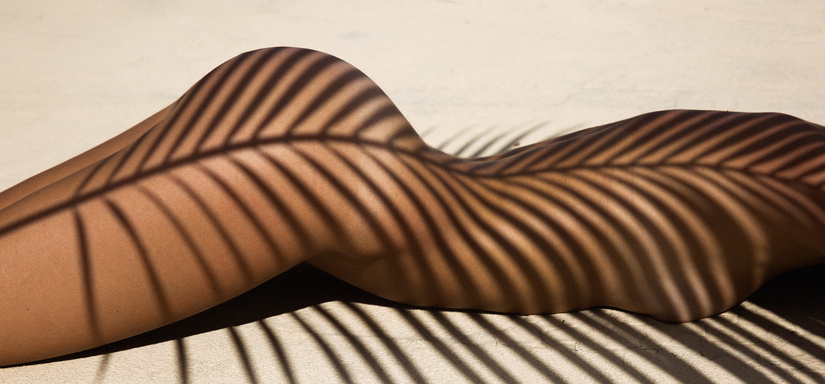
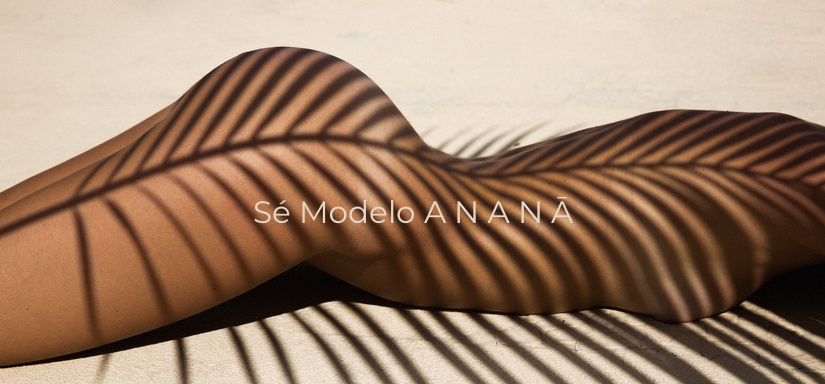
missing the questions interaction to be finished

Changed region(s): [[0.303, 0.5, 0.697, 0.5938]]

diff --git a/index.html b/index.html
@@ -19,12 +19,12 @@
 </head>
 <body> 
     <div class="fixed-icons">
-        <a href="https://api.whatsapp.com/send?phone=573155146772&text=Hola!%20Estoy%20interesada%20en%20ser%20parte%20de%20la%20familia%20Anan%C4%81%20%E2%9C%A8">
+        <a href="https://api.whatsapp.com/send?phone=573155146772&text=Hola!%20Estoy%20interesada%20en%20ser%20parte%20de%20la%20familia%20Anan%C4%81%20%E2%9C%A8" target="_blank">
             
             <img src="img/whatsapp.png" alt="logo-whatsapp">
         </a>
 
-        <a href="https://www.instagram.com/ananastudiocol/">
+        <a href="https://www.instagram.com/ananastudiocol/" target="_blank">
             
             <img src="img/instagram.png" alt="logo-instagram">
         </a>
@@ -57,7 +57,7 @@
                 <a href="#">Nosotros</a>
                 <a href="#">Preguntas</a>
                 <a href="#">Beneficios</a>
-                <a href="#">Contactanos</a>
+                <a href="#" target="_blank">Contactanos</a>
             </nav>
             
         </header>
@@ -65,7 +65,6 @@
         <div class="main-picture">
             <img  id="phone" src="/img/portadacel.jpg" alt="imagen-landing-cel">
             <img id="pc" src="/img/mujer-acostada.jpeg" alt="imagen-landing">
-            <p class="slogan">Sé modelo <span>ananā</span></p>
             
         </div>
 
@@ -331,7 +330,7 @@
             <div class="social-footer">
                 <p>Siguenos en:</p>
                 <div class="icons-footer">
-                    <a href="https://www.instagram.com/ananastudiocol/">
+                    <a href="https://www.instagram.com/ananastudiocol/" target="_blank">
                         <svg xmlns="http://www.w3.org/2000/svg" class="icon icon-tabler icon-tabler-brand-instagram" width="54" height="54" viewBox="0 0 24 24" stroke-width="2" stroke="#F3E4D9" fill="none" stroke-linecap="round" stroke-linejoin="round">
                             <path stroke="none" d="M0 0h24v24H0z" fill="none"/>
                             <rect x="4" y="4" width="16" height="16" rx="4" />
@@ -340,11 +339,11 @@
                         </svg>
                     </a>
 
-                    <a href="#">
+                    <a href="#" target="_blank">
                         <svg id="fi_1384005" enable-background="new 0 0 512 512" width="39" height="39" viewBox="0 0 512 512"  fill="#F3E4D9" xmlns="http://www.w3.org/2000/svg"><path d="m512 256c0-141.4-114.6-256-256-256s-256 114.6-256 256 114.6 256 256 256c1.5 0 3 0 4.5-.1v-199.2h-55v-64.1h55v-47.2c0-54.7 33.4-84.5 82.2-84.5 23.4 0 43.5 1.7 49.3 2.5v57.2h-33.6c-26.5 0-31.7 12.6-31.7 31.1v40.8h63.5l-8.3 64.1h-55.2v189.5c107-30.7 185.3-129.2 185.3-246.1z"></path></svg>
                     </a>
 
-                    <a href="https://api.whatsapp.com/send?phone=573155146772&text=Hola!%20Estoy%20interesada%20en%20ser%20parte%20de%20la%20familia%20Anan%C4%81%20%E2%9C%A8">
+                    <a href="https://api.whatsapp.com/send?phone=573155146772&text=Hola!%20Estoy%20interesada%20en%20ser%20parte%20de%20la%20familia%20Anan%C4%81%20%E2%9C%A8" target="_blank">
                         <svg xmlns="http://www.w3.org/2000/svg" class="icon icon-tabler icon-tabler-brand-whatsapp" width="52" height="52" viewBox="0 0 24 24" stroke-width="2" stroke="#F3E4D9" fill="none" stroke-linecap="round" stroke-linejoin="round">
                             <path stroke="none" d="M0 0h24v24H0z" fill="none"/>
                             <path d="M3 21l1.65 -3.8a9 9 0 1 1 3.4 2.9l-5.05 .9" />

diff --git a/css/style.css b/css/style.css
@@ -18,6 +18,7 @@ html { /** box sizing snippet paul irish**/
     font-size: 62.5% ;
 
     margin: 0;
+    
 
   }
 
@@ -115,6 +116,36 @@ html { /** box sizing snippet paul irish**/
 
   
   /********** LANDING **********/
+
+  /** FIXED BUTTONS **/
+  .fixed-icons{
+    display: flex;
+    flex-direction: column;
+    position: fixed;
+    bottom: 12%;
+    right: 5%; 
+    
+    
+  }
+  
+  .fixed-icons a{
+    
+    width: 5rem;
+    height: 5rem;
+    padding-bottom: 6rem;
+    
+     
+  }
+  
+  @media (min-width: 768px) {
+    .fixed-icons a{
+    
+      width: 7rem;
+      height: 7rem;
+      padding-bottom: 8rem
+       
+    }
+    
 
 
   /** HEADER **/
@@ -259,13 +290,10 @@ html { /** box sizing snippet paul irish**/
 
   @media (min-width: 768px) {
     .main-picture{
-      
-      position: relative;
-      
+
       text-align: center;
       padding-bottom: 10rem;
-      
-      
+ 
     }
 
     .main-picture #pc {
@@ -298,36 +326,7 @@ html { /** box sizing snippet paul irish**/
 
   
 
-  /** SLOGAN **/
-
-  .slogan{
-    display: none;
-  }
-
-  @media (min-width: 768px) {
-    .slogan{
-      display: block;
-      font-family: 'Montserrat';
-      text-transform: capitalize;
-      text-align: center;
-      color: var(--secundarioClaro);
-      font-size: 4.8rem;
-      position: absolute;
-      top: 10px;
-      left: 10px;
-      font-weight: 100;
   
-      position: absolute;
-        top: 45%;
-        left: 50%;
-        transform: translate(-50%, -50%);
-    }
-  
-    .slogan span{
-      text-transform:uppercase;
-      letter-spacing: 1rem;
-    }
-  }
 
   .logo-text{
     max-width: 80%;
@@ -598,33 +597,7 @@ footer span{
   text-transform: capitalize;
 }
 
-.fixed-icons{
-  display: flex;
-  flex-direction: column;
-  position: fixed;
-  bottom: 12%;
-  right: 5%; 
-  
-}
 
-.fixed-icons a{
-  
-  width: 5rem;
-  height: 5rem;
-  padding-bottom: 6rem;
-  
-   
-}
-
-@media (min-width: 768px) {
-  .fixed-icons a{
-  
-    width: 7rem;
-    height: 7rem;
-    padding-bottom: 8rem
-     
-  }
-  
 }
 
 
